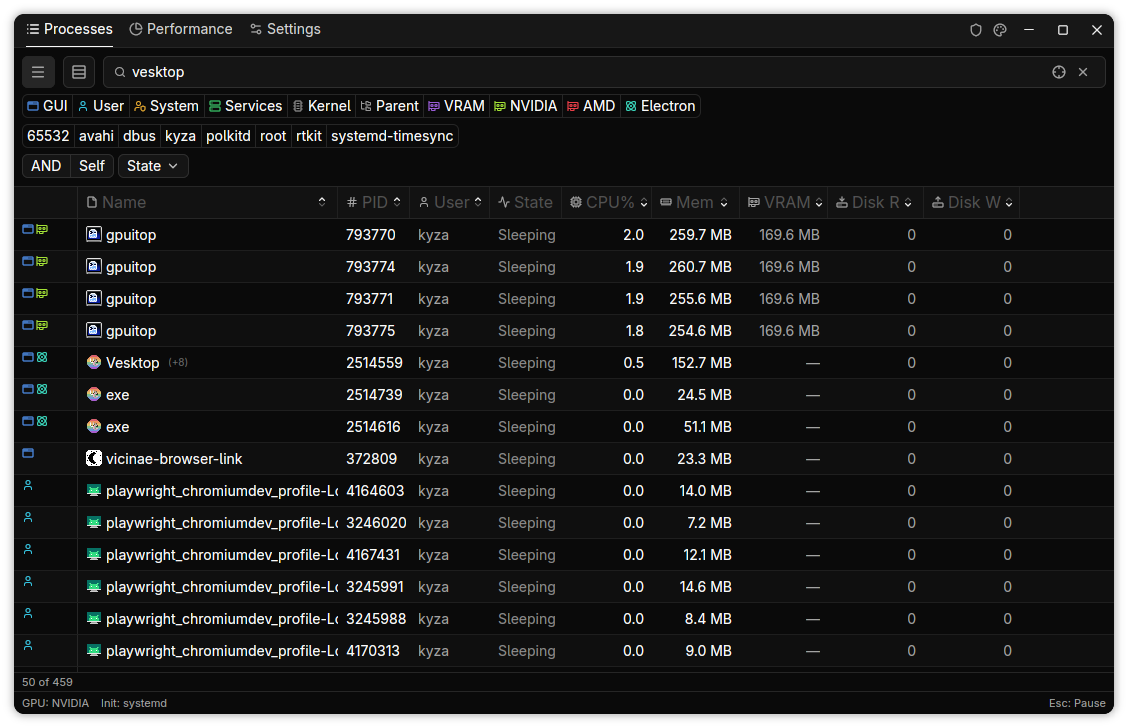
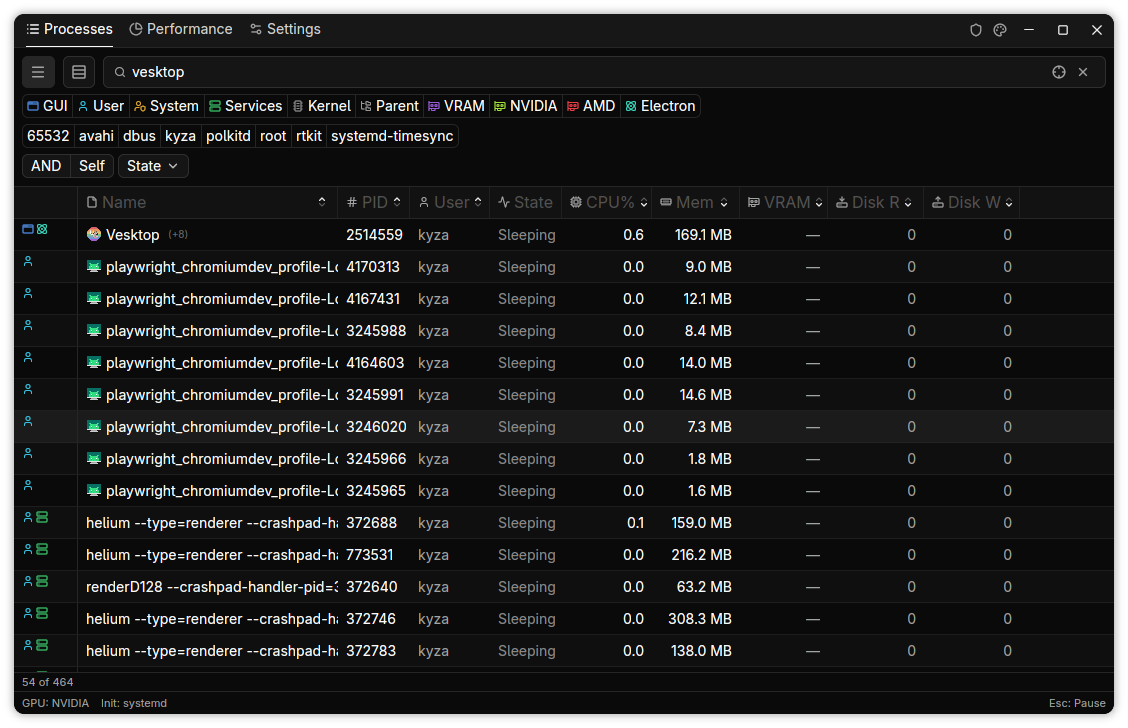
fix: rank search results by displayed name, then command
best_fuzzy_score returned a single max across name, command, and
electron_app_name, so gpuitop's own `--search vesktop` flag tied the real
Vesktop process at the same fuzzy score and the CPU sort broke the tie in
gpuitop's favor. Score now a (name_score, command_score) tuple compared
name-first — a display-name match (electron_app_name or name) outranks a
command-only match. Regression test added; screenshots regenerated.

diff --git a/crates/core/src/processes/tests.rs b/crates/core/src/processes/tests.rs
@@ -50,14 +50,14 @@ fn best_score_exact_ranks_higher() {
 fn best_score_matches_command() {
 	let mut m = nucleo::Matcher::new(nucleo::Config::DEFAULT);
 	let p = make_process(1, 0, "bash", "root", 'S', "/usr/bin/firefox-esr");
-	assert!(best_fuzzy_score("firefox", &p, &mut m) > 0);
+	assert!(best_fuzzy_score("firefox", &p, &mut m).1 > 0);
 }
 
 #[test]
 fn best_score_zero_when_no_match() {
 	let mut m = nucleo::Matcher::new(nucleo::Config::DEFAULT);
 	let p = make_process(1, 0, "bash", "root", 'S', "bash");
-	assert_eq!(best_fuzzy_score("xyzzy", &p, &mut m), 0);
+	assert_eq!(best_fuzzy_score("xyzzy", &p, &mut m), (0, 0));
 }
 
 #[test]
@@ -65,5 +65,28 @@ fn best_score_uses_electron_app_name() {
 	let mut m = nucleo::Matcher::new(nucleo::Config::DEFAULT);
 	let mut p = make_process(1, 0, "electron", "alice", 'S', "electron");
 	p.electron_app_name = Some("discord".into());
-	assert!(best_fuzzy_score("discord", &p, &mut m) > 0);
+	assert!(best_fuzzy_score("discord", &p, &mut m).0 > 0);
+}
+
+#[test]
+fn best_score_name_outranks_command() {
+	let mut m = nucleo::Matcher::new(nucleo::Config::DEFAULT);
+	// gpuitop's own cmdline carries "--search vesktop", so it matches the
+	// command; the real vesktop process matches by its displayed name. The
+	// name match must rank first, not fall through to the CPU tiebreak.
+	let gpuitop = make_process(
+		1,
+		0,
+		"gpuitop",
+		"alice",
+		'S',
+		"gpuitop --search vesktop",
+	);
+	let mut vesktop =
+		make_process(2, 0, "electron", "alice", 'S', "electron");
+	vesktop.electron_app_name = Some("vesktop".into());
+	assert!(
+		best_fuzzy_score("vesktop", &vesktop, &mut m)
+			> best_fuzzy_score("vesktop", &gpuitop, &mut m)
+	);
 }

diff --git a/crates/core/src/fuzzy.rs b/crates/core/src/fuzzy.rs
@@ -13,7 +13,11 @@ impl FuzzyMatcher {
 	}
 
 	#[hotpath::measure]
-	pub fn best_score(&mut self, needle: &str, p: &ProcessSnapshot) -> u32 {
+	pub fn best_score(
+		&mut self,
+		needle: &str,
+		p: &ProcessSnapshot,
+	) -> (u32, u32) {
 		best_fuzzy_score(needle, p, &mut self.0)
 	}
 }
@@ -37,23 +41,17 @@ pub(crate) fn best_fuzzy_score(
 	needle: &str,
 	p: &ProcessSnapshot,
 	matcher: &mut nucleo::Matcher,
-) -> u32 {
+) -> (u32, u32) {
+	// Name-first ranking: the displayed name (electron_app_name or name)
+	// is what the user sees, so a name match outranks a command-only match.
+	let name = p.electron_app_name.as_deref().unwrap_or(&p.name);
 	let name_score =
-		nucleo_fuzzy_score(needle, &p.name.to_lowercase(), matcher)
+		nucleo_fuzzy_score(needle, &name.to_lowercase(), matcher)
 			.unwrap_or(0);
 	let cmd_score =
 		nucleo_fuzzy_score(needle, &p.command.to_lowercase(), matcher)
 			.unwrap_or(0);
-	let electron_score = nucleo_fuzzy_score(
-		needle,
-		&p.electron_app_name
-			.as_deref()
-			.unwrap_or_default()
-			.to_lowercase(),
-		matcher,
-	)
-	.unwrap_or(0);
-	name_score.max(cmd_score).max(electron_score)
+	(name_score, cmd_score)
 }
 
 #[cfg(test)]
@@ -151,7 +149,7 @@ mod tests {
 		};
 		let mut m = matcher();
 		let s = m.best_score("fire", &p);
-		assert!(s > 0);
+		assert!(s.0 > 0);
 	}
 
 	#[test]
@@ -180,6 +178,6 @@ mod tests {
 		};
 		let mut m = matcher();
 		let s = m.best_score("firefox", &p);
-		assert_eq!(s, 0);
+		assert_eq!(s, (0, 0));
 	}
 }

diff --git a/crates/processes/src/tree.rs b/crates/processes/src/tree.rs
@@ -84,7 +84,7 @@ impl ProcessTableDelegate {
 		}
 
 		let mut matcher = gpuitop_core::fuzzy::FuzzyMatcher::new();
-		let fuzzy_scores: HashMap<i32, u32> = if has_search {
+		let fuzzy_scores: HashMap<i32, (u32, u32)> = if has_search {
 			pid_lookup
 				.iter()
 				.map(|(pid, proc)| {
@@ -103,14 +103,14 @@ impl ProcessTableDelegate {
 			pid_lookup: &HashMap<i32, ProcessSnapshot>,
 			matched: &HashSet<i32>,
 			expand_pids: &HashSet<i32>,
-			fuzzy_scores: &HashMap<i32, u32>,
+			fuzzy_scores: &HashMap<i32, (u32, u32)>,
 			use_fuzzy_sort: bool,
 		) -> Vec<TreeItem> {
 			let mut sorted_pids = pids.to_vec();
 			if use_fuzzy_sort {
 				sorted_pids.sort_by(|a, b| {
-					let sa = fuzzy_scores.get(a).copied().unwrap_or(0);
-					let sb = fuzzy_scores.get(b).copied().unwrap_or(0);
+					let sa = fuzzy_scores.get(a).copied().unwrap_or((0, 0));
+					let sb = fuzzy_scores.get(b).copied().unwrap_or((0, 0));
 					sb.cmp(&sa)
 				});
 			} else {

diff --git a/crates/core/CONTEXT.md b/crates/core/CONTEXT.md
@@ -144,7 +144,7 @@ Recursive RON layering of an overlay onto a base config — the mechanism behind
 **fuzzy match**:
 Whether a search needle fuzzy-matches a target (nucleo).
 **best_fuzzy_score**:
-Best fuzzy score of the search across a process's name, command, and `electron_app_name`; drives relevance ordering while a search is active.
+Search ranking score `(name_score, command_score)` for a process — the displayed name (electron_app_name or name) first, command second — so a name match outranks a command-only match even at equal fuzzy scores (e.g. `--search vesktop` in gpuitop's own cmdline never outranks the real Vesktop process). Drives relevance ordering while a search is active.
 
 ## Relationships
 
